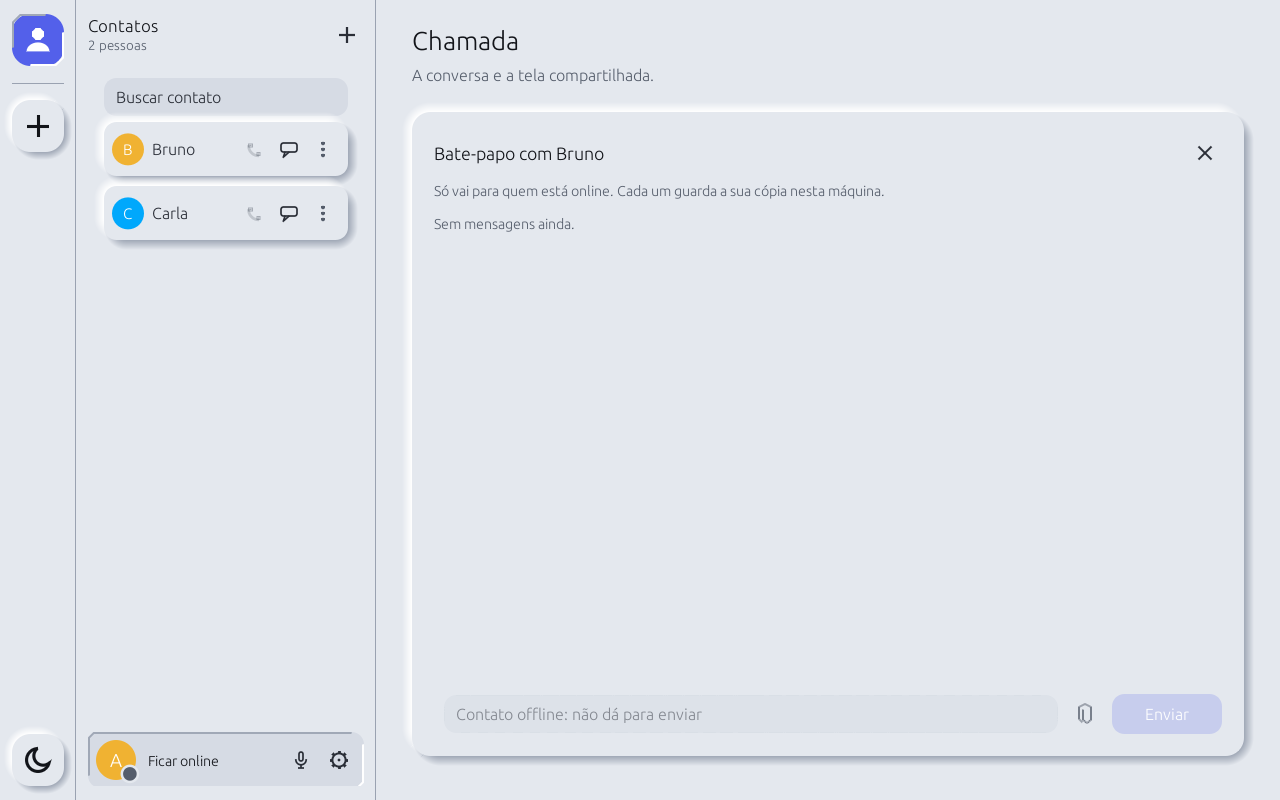
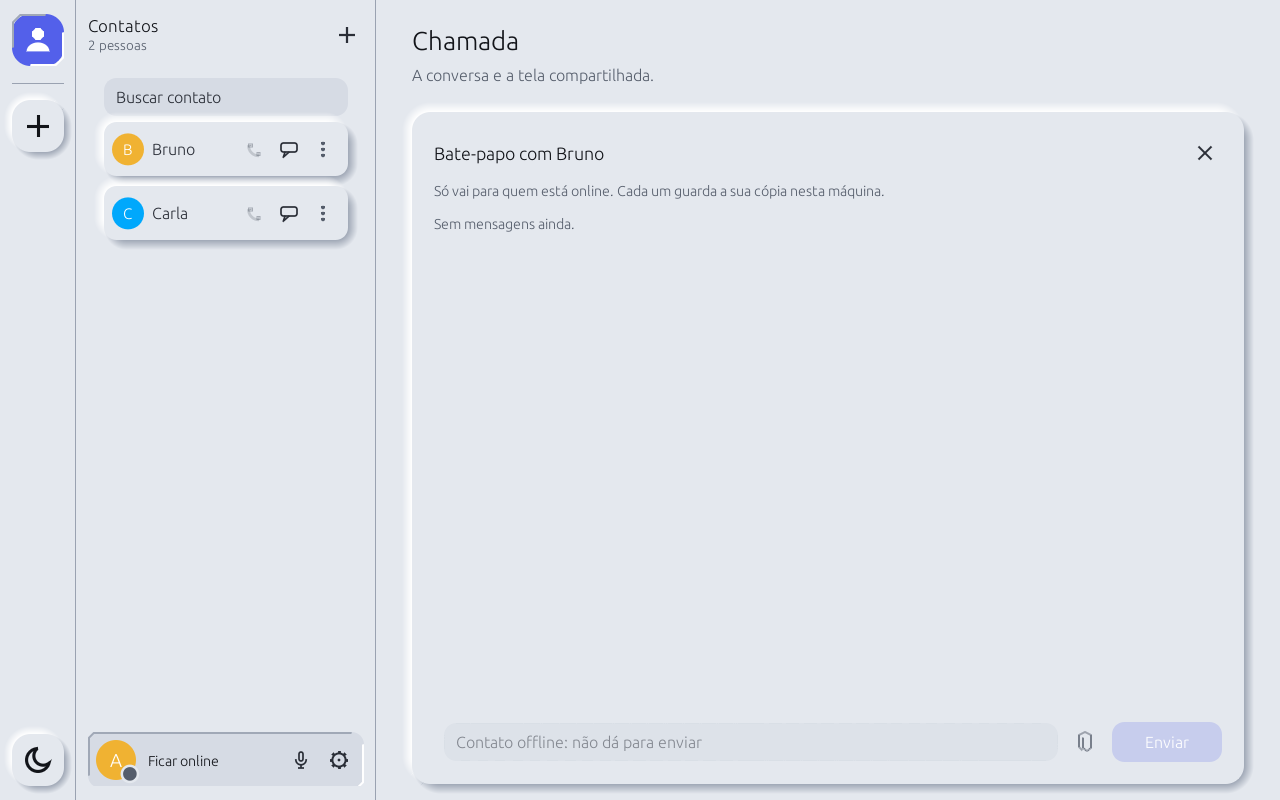
Bate-papo do contato: a conversa desce até o pé da janela, como a da sala; a margem de 120 px deixava um vão embaixo

Changed region(s): [[0.3438, 0.8438, 1.0, 1.0]]

diff --git a/examples/gui/conversa.rs b/examples/gui/conversa.rs
@@ -42,7 +42,7 @@ impl App {
             });
             note(ui, "Só vai para quem está online. Cada um guarda a sua cópia nesta máquina.");
             ui.add_space(6.0);
-            let height = (ui.clip_rect().bottom() - ui.cursor().top() - 120.0).max(160.0);
+            let height = (ui.clip_rect().bottom() - ui.cursor().top() - 92.0).max(160.0);
             egui::ScrollArea::vertical().id_salt(("conversa", peer)).max_height(height).min_scrolled_height(height).stick_to_bottom(true).auto_shrink([false, false]).show(ui, |ui| {
                 if msgs.is_empty() {
                     note(ui, "Sem mensagens ainda.");
